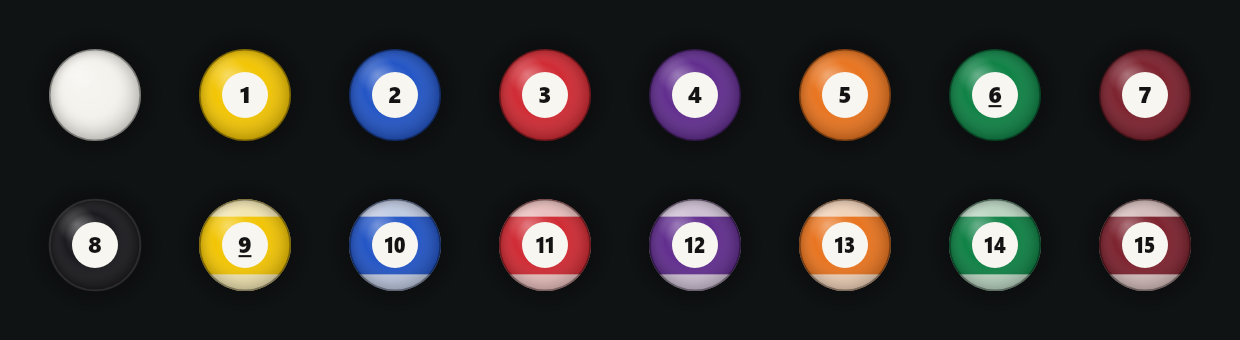
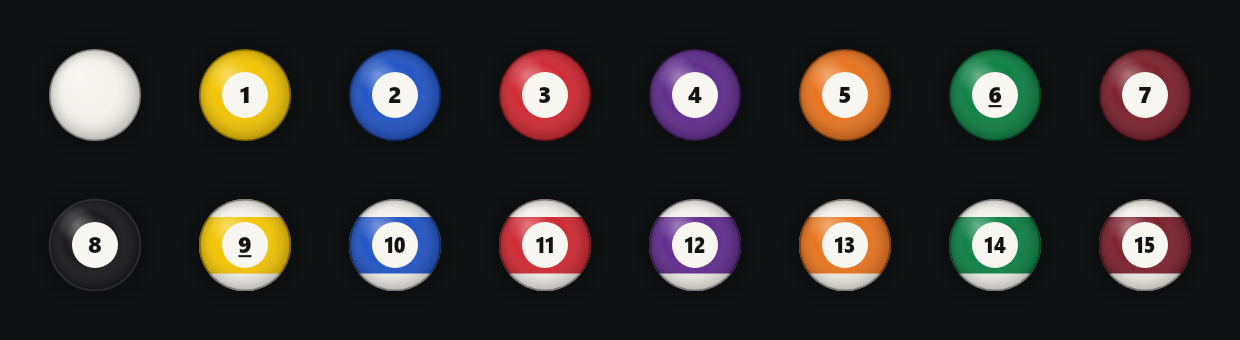
Stop the stripe caps picking up the ball's colour
Caps were painted in one-pixel scanline bands, so nearly every band edge was anti-aliased against the coloured body underneath and the white came out tinted. Bands now overlap their neighbours, and the scanline count scales with the drawn radius.

diff --git a/src/render/scene.ts b/src/render/scene.ts
@@ -508,6 +508,7 @@ function fillCap(
     }
 
     edges.sort((p, q) => p - q);
+    const band = (2 * R) / rows;
     for (let k = 0; k < edges.length - 1; k++) {
       const x0 = edges[k];
       const x1 = edges[k + 1];
@@ -515,7 +516,15 @@ function fillCap(
       const xm = (x0 + x1) / 2;
       const zm = Math.sqrt(Math.max(0, h2 - xm * xm));
       if (ax * xm + ay * y + az * zm > c * R) {
-        ctx.fillRect(cx + x0, cy + y, x1 - x0, (2 * R) / rows + 1e-6);
+        // Bands overlap their neighbours. Without the overlap each sub-pixel
+        // seam is anti-aliased against the coloured body underneath, and the
+        // white cap ends up tinted with the ball's own colour.
+        ctx.fillRect(
+          cx + x0 - band * 0.15,
+          cy + y - band * 0.5,
+          x1 - x0 + band * 0.3,
+          band * 2,
+        );
       }
     }
   }
@@ -570,7 +579,7 @@ export function drawBall(
     // instead of being a flat bar that ignores the rotation.
     ctx.fillStyle = hue;
     ctx.fillRect(x - R, y - R, R * 2, R * 2);
-    const rows = Math.max(10, Math.min(320, Math.round(pxRadius * 2)));
+    const rows = Math.max(24, Math.min(400, Math.round(pxRadius * 4)));
     const axis = qRotate(b.q, { x: 0, y: 1, z: 0 });
     fillCap(ctx, x, y, R, axis, 0.62, '#f4f2ec', rows);
     fillCap(ctx, x, y, R, { x: -axis.x, y: -axis.y, z: -axis.z }, 0.62, '#f4f2ec', rows);
